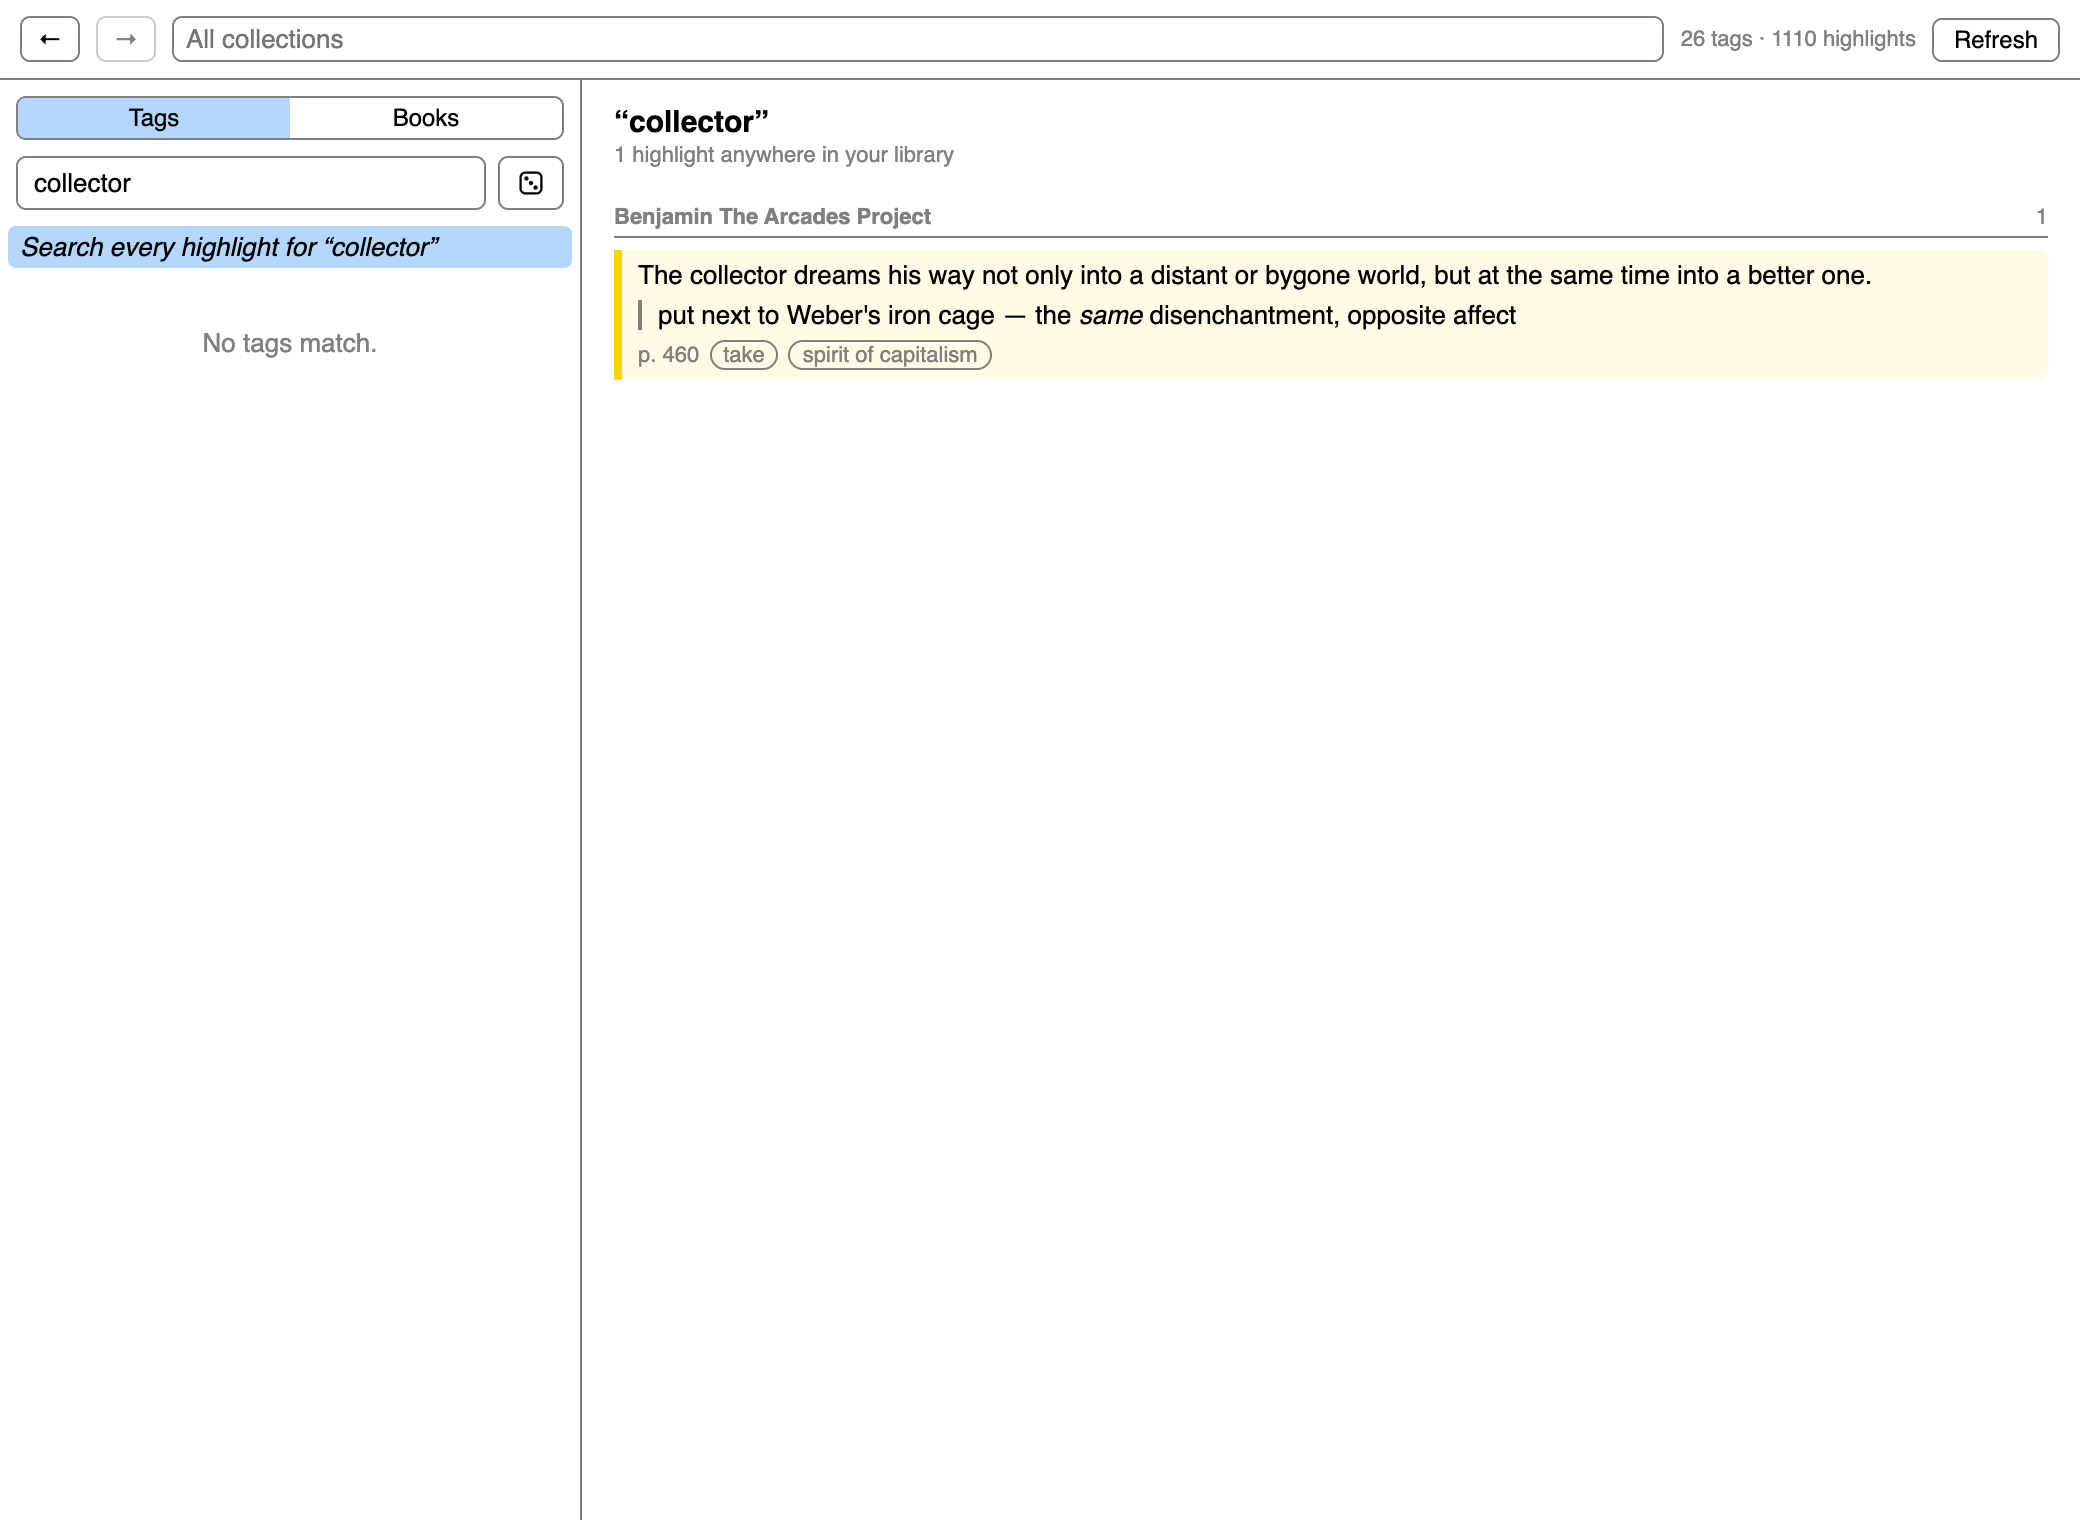
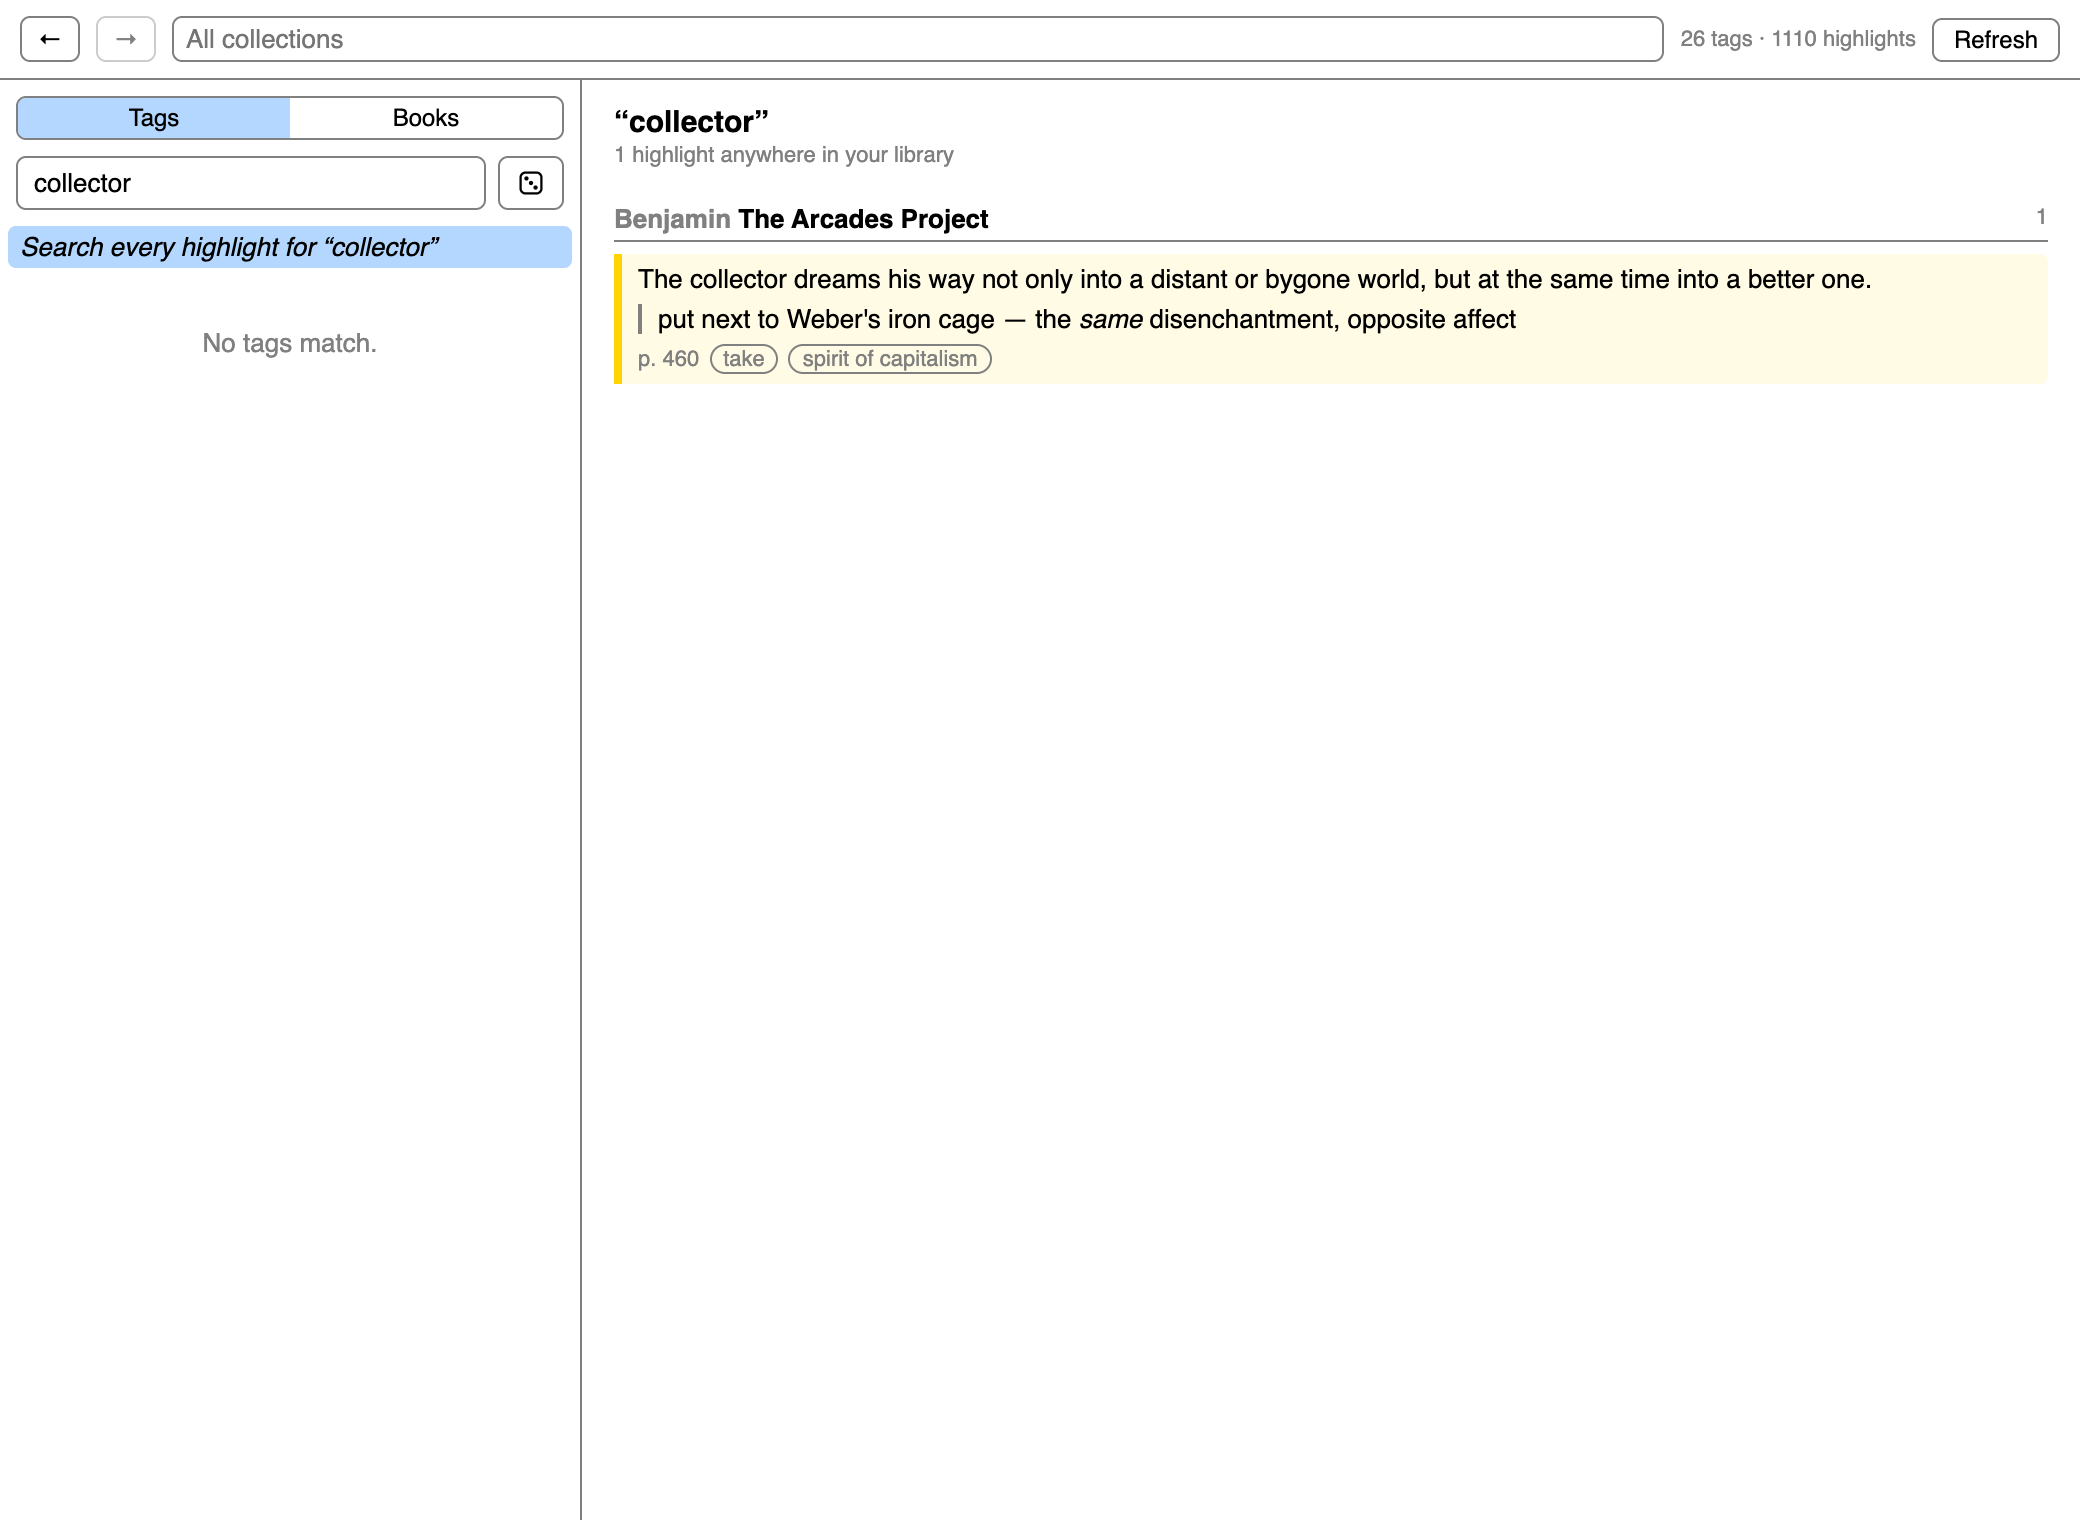
Tags narrow a book instead of leaving it, and book titles read
Clicking a tag inside a book now filters that book to it — clicking again
widens back out — because leaving the book was never what the click looked
like it would do. The way out to the tag itself is an explicit button, so
it is still one click but a deliberate one. Card chips follow the same rule
inside a book, and still jump when you are on the tag axis. The narrowing
lives in the view, so back and forward walk it.

Book titles in the tag view were grey and 11px: .book span styled the count
and matched the name too, and .book .nm never set a colour of its own. The
count has its own class now and the name reads as body text.

Changed region(s): [[0.2812, 0.1237, 0.9688, 0.2474]]

diff --git a/bootstrap.js b/bootstrap.js
@@ -300,7 +300,13 @@ function rescope() {
 	if (!view) return;
 	// A view that the new scope has emptied is not a view any more.
 	if (view.kind === "tag" && !counts.some((c) => c.tag === view.value)) view = null;
-	if (view.kind === "book" && !entries.some((e) => inScope(e) && e.book === view.value)) view = null;
+	if (view.kind === "book") {
+		const rows = entries.filter((e) => inScope(e) && e.book === view.value);
+		if (!rows.length) view = null;
+		else if (view.tag && !rows.some((e) => e.tags.includes(view.tag))) {
+			view = { kind: "book", value: view.value };
+		}
+	}
 }
 
 // --- the window ------------------------------------------------------------
@@ -339,6 +345,11 @@ body { margin:0; height:100vh; display:flex; flex-direction:column;
 	border-radius:7px; padding:0 5px; }
 .near i:hover { background:Highlight; color:HighlightText; border-color:HighlightText; }
 .near i:hover b { color:HighlightText; }
+.near i.on { background:Highlight; color:HighlightText; border-color:HighlightText; }
+.near i.on b { color:HighlightText; }
+.near button.out { font:11px sans-serif; padding:1px 8px; border:1px solid GrayText;
+	border-radius:9px; background:transparent; color:GrayText; cursor:pointer; }
+.near button.out:hover { background:Highlight; color:HighlightText; border-color:HighlightText; }
 .cols { flex:1; min-height:0; display:flex; }
 .left { width:290px; display:flex; flex-direction:column; border-right:1px solid GrayText; }
 .axis { display:flex; margin:8px 8px 0; border:1px solid GrayText; border-radius:5px; overflow:hidden; }
@@ -349,7 +360,7 @@ body { margin:0; height:100vh; display:flex; flex-direction:column;
 .nm { flex:1; min-width:0; overflow:hidden; text-overflow:ellipsis; white-space:nowrap; }
 .nm i.who { font-style:normal; color:GrayText; }
 .tag.on .nm i.who { color:HighlightText; }
-.book .nm { font-weight:700; cursor:pointer; }
+.book .nm { color:CanvasText; font-size:13px; font-weight:700; cursor:pointer; }
 .book .nm:hover { text-decoration:underline; }
 .rel { margin:10px 0 2px; }
 .relh { display:flex; gap:6px; align-items:center; color:GrayText; font-size:11px;
@@ -394,7 +405,7 @@ body { margin:0; height:100vh; display:flex; flex-direction:column;
 .right .find span { color:GrayText; font-size:11px; white-space:nowrap; }
 .book { margin:18px 0 6px; padding-bottom:3px; border-bottom:1px solid GrayText;
 	font-weight:700; display:flex; justify-content:space-between; gap:8px; }
-.book span { color:GrayText; font-weight:400; font-size:11px; white-space:nowrap; }
+.book .n { color:GrayText; font-weight:400; font-size:11px; white-space:nowrap; }
 .hl { border-left:4px solid var(--c); padding:5px 8px; margin:6px 0; border-radius:0 4px 4px 0;
 	cursor:pointer; background:color-mix(in srgb, var(--c) 10%, Canvas); }
 .hl:hover { background:color-mix(in srgb, var(--c) 22%, Canvas); }
@@ -646,6 +657,10 @@ function build(w) {
 	let hIndex = -1;
 
 	const isTag = (t) => !!view && view.kind === "tag" && view.value === t;
+	// The tag currently doing the narrowing, whichever axis you are on.
+	const activeTag = () => (!view ? null
+		: view.kind === "tag" ? view.value
+		: view.kind === "book" ? (view.tag || null) : null);
 	const isBook = (b) => !!view && view.kind === "book" && view.value === b;
 
 	// --- where you are, and how to get back ---------------------------------
@@ -655,7 +670,9 @@ function build(w) {
 		fwd.disabled = hIndex >= trail.length - 1;
 	}
 
-	const same = (a, b) => (!a && !b) || (!!a && !!b && a.kind === b.kind && a.value === b.value);
+	const same = (a, b) => (!a && !b)
+		|| (!!a && !!b && a.kind === b.kind && a.value === b.value
+			&& (a.tag || null) === (b.tag || null));
 
 	function push() {
 		const now = { scope, axis, view, q: search.value };
@@ -706,6 +723,12 @@ function build(w) {
 	// Arriving from somewhere else — a chip, a related book — means landing on
 	// the other axis with a clean search box.
 	function jumpToTag(tag) { axis = "tags"; search.value = ""; pickTag(tag); }
+
+	// Within a book, picking a tag narrows this book rather than leaving it —
+	// clicking the same one again widens back out.
+	const narrow = (tag) =>
+		show({ kind: "book", value: view.value, tag: view.tag === tag ? null : tag });
+	const chipPick = (tag) => (view && view.kind === "book" ? narrow(tag) : jumpToTag(tag));
 	function jumpToBook(book) { axis = "books"; search.value = ""; pickBook(book); }
 
 	function setAxis(id) {
@@ -807,7 +830,7 @@ function build(w) {
 					const name = bookName(book);
 					name.title = "Show this book";
 					name.addEventListener("click", () => jumpToBook(book.book));
-					head.append(name, el(doc, "span", null, `${book.rows.length}`));
+					head.append(name, el(doc, "span", "n", `${book.rows.length}`));
 					list.append(head);
 					for (const e of book.rows.slice(0, room)) list.append(card(e));
 					room -= book.rows.length;
@@ -860,7 +883,7 @@ function build(w) {
 		const strip = el(doc, "div", "near");
 		strip.append(el(doc, "span", null, label));
 		for (const it of items) {
-			const chip = el(doc, "i", null, it.tag);
+			const chip = el(doc, "i", activeTag() === it.tag ? "on" : null, it.tag);
 			chip.append(el(doc, "b", null, String(it.n)));
 			chip.addEventListener("click", () => onPick(it.tag));
 			strip.append(chip);
@@ -911,10 +934,19 @@ function build(w) {
 		right.append(title);
 		if (b.creator) right.append(el(doc, "div", "sub", b.creator));
 
+		const picked = view.tag || null;
 		const mine = tagCounts(rows);
 		if (mine.length) {
-			right.append(chips("tagged", mine.slice(0, BOOK_TAGS), jumpToTag,
-				mine.length > BOOK_TAGS ? `+${mine.length - BOOK_TAGS} more` : null));
+			const strip = chips("tagged", mine.slice(0, BOOK_TAGS), narrow,
+				mine.length > BOOK_TAGS ? `+${mine.length - BOOK_TAGS} more` : null);
+			// Narrowing keeps you in the book, so offer the door out explicitly
+			// rather than making every chip click take it.
+			if (picked) {
+				const out = el(doc, "button", "out", `see \u201C${picked}\u201D across all books`);
+				out.addEventListener("click", () => jumpToTag(picked));
+				strip.append(out);
+			}
+			right.append(strip);
 		}
 
 		// Folded by default: the reading pane is for reading, and eight titles
@@ -946,7 +978,7 @@ function build(w) {
 			right.append(box);
 		}
 
-		right.append(...filtered(rows, true));
+		right.append(...filtered(picked ? rows.filter((e) => e.tags.includes(picked)) : rows, true));
 	}
 
 	// Every highlight, not just one tag's. The cards carry their tags, so a hit
@@ -1062,10 +1094,10 @@ function build(w) {
 		const meta = el(doc, "div", "m");
 		if (e.page) meta.append(el(doc, "span", null, "p. " + e.page));
 		for (const t of e.tags) {
-			if (isTag(t)) continue;
+			if (t === activeTag()) continue;
 			const chip = el(doc, "i", null, t);
-			chip.title = "Show this tag";
-			chip.addEventListener("click", (ev) => { ev.stopPropagation(); jumpToTag(t); });
+			chip.title = view && view.kind === "book" ? "Show only this tag in this book" : "Show this tag";
+			chip.addEventListener("click", (ev) => { ev.stopPropagation(); chipPick(t); });
 			meta.append(chip);
 		}
 		if (meta.childNodes.length) box.append(meta);

diff --git a/README.md b/README.md
@@ -41,8 +41,11 @@ A Zotero 10 plugin for reading your own marginalia by tag.
   author as well as title. A book shows its own tag profile, then **related
   books** — the ones it shares the most tags with, which is how you find out
   that two things you read a year apart were the same project — then its
-  highlights in reading order. Related books fold away by default, with their
-  count on the header, and stay as you left them from book to book;
+  highlights in reading order. Clicking one of a book's tags narrows the book to
+  it rather than leaving — click it again to widen back out, or take the *see
+  “…” across all books* button to go to the tag itself. Related books fold away
+  by default, with their count on the header, and stay as you left them from
+  book to book;
 - a **die** beside the search box rolls a random tag, or a random book. Two thirds of the tags in
   a well-used library have been used exactly once, which puts them past the end
   of every sorted list; this is the only thing that ever surfaces them. It draws
